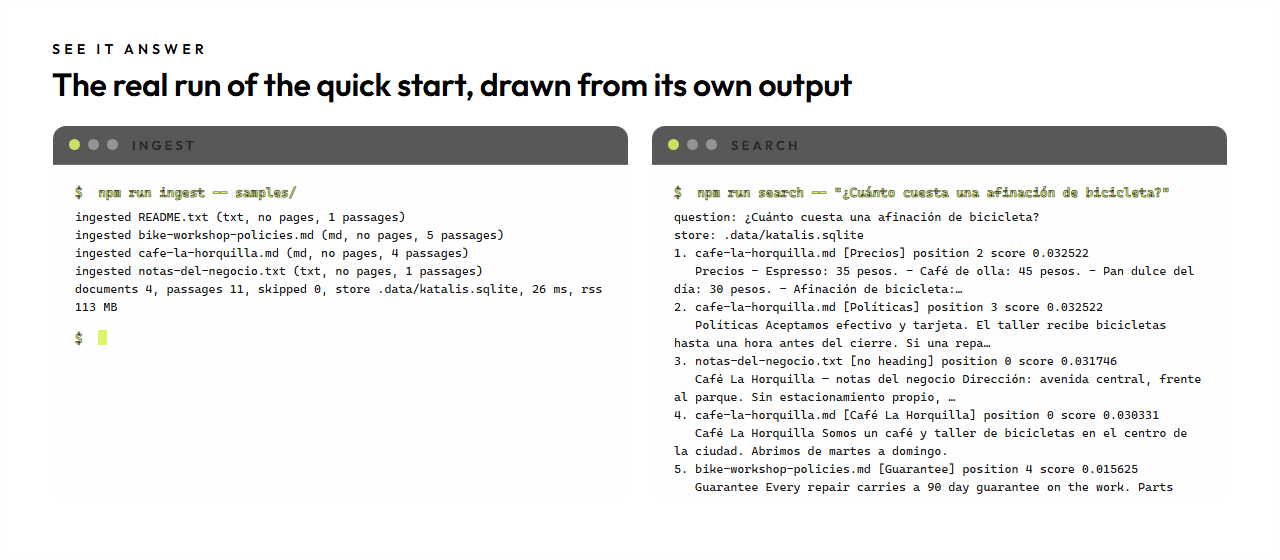
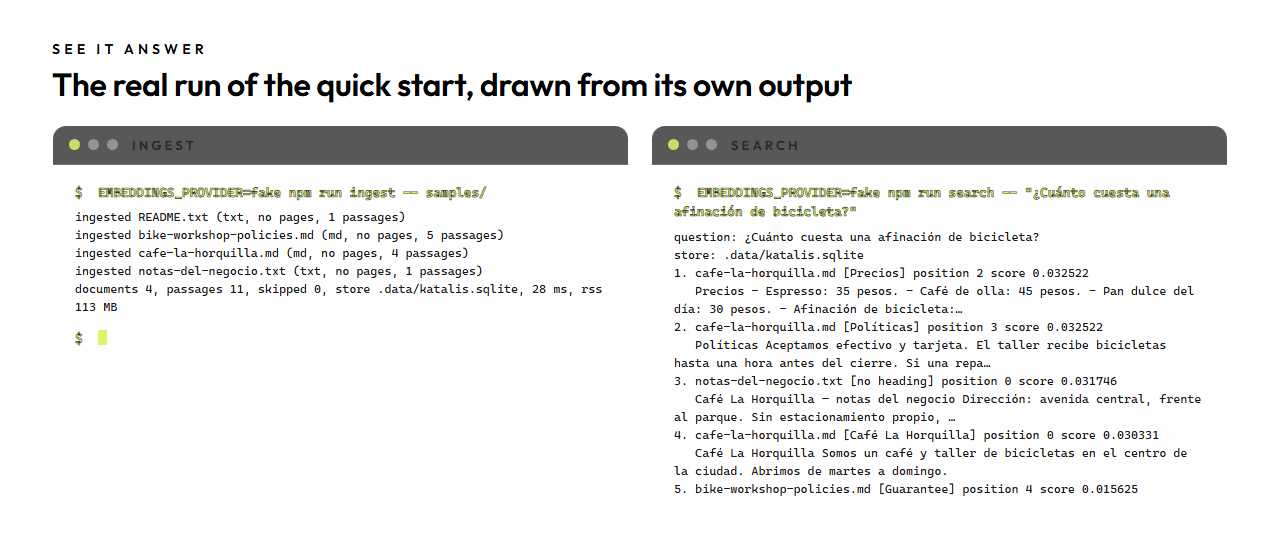
fix(cited-identity-and-readme): make the quick start run as it is written

Changed region(s): [[0.5312, 0.3339, 0.9375, 0.8804], [0.0625, 0.3339, 0.375, 0.3643]]

diff --git a/tests/readme.test.ts b/tests/readme.test.ts
@@ -166,6 +166,7 @@ function commands(text: string): string[] {
   return codeFences(text)
     .flatMap((block) => block.split("\n"))
     .map((line) => line.trim())
+    .map((line) => line.replace(newlines("^[A-Z][A-Z0-9_]*=[^\\s]+ +"), ""))
     .filter((line) => /^npm (ci|run )/.test(line))
     .map((line) =>
       line.replace(/^npm run ([a-z0-9:]+).*$/, "$1").replace(/^npm (ci)$/, "$1"),
@@ -460,7 +461,8 @@ describe("README, the quick start and the configuration", () => {
     }
 
     expect(quickStart).toContain("samples/");
-    expect(quickStart).toContain("EMBEDDINGS_PROVIDER=fake");
+    expect(quickStart).toContain("EMBEDDINGS_PROVIDER=fake npm run ingest -- samples/");
+    expect(quickStart).toMatch(/EMBEDDINGS_PROVIDER=fake npm run search -- "/);
   });
 
   it("compares the variables of the configuration with .env.example and with the code", () => {
@@ -621,8 +623,8 @@ describe("README, its graphics", () => {
     const search = demo["search"] as Record<string, unknown>;
     const quickStart = bodyOf(readText("README.md"), "Quick start");
 
-    expect(ingest["command"]).toBe("npm run ingest -- samples/");
-    expect(search["command"]).toContain("npm run search --");
+    expect(ingest["command"]).toBe("EMBEDDINGS_PROVIDER=fake npm run ingest -- samples/");
+    expect(search["command"]).toContain("EMBEDDINGS_PROVIDER=fake npm run search --");
     expect(String(ingest["output"])).toContain("documents 4, passages 11");
     expect(String(search["output"])).toMatch(newlines("^\\d+\\. ", "m"));
     expect(demo["exitCode"]).toBe(0);
@@ -630,11 +632,11 @@ describe("README, its graphics", () => {
     const drawn = demo["drawn"] as Record<string, string[]>;
 
     for (const line of drawn["ingest"] ?? []) {
-      expect(quickStart, line).toContain(line);
+      expect(quickStart, line.slice(0, 60)).toContain(line.slice(0, 60));
     }
 
     for (const line of (drawn["search"] ?? []).slice(0, 10)) {
-      expect(quickStart, line).toContain(line);
+      expect(quickStart, line.slice(0, 60)).toContain(line.slice(0, 60));
     }
   });
 

diff --git a/README.es.md b/README.es.md
@@ -102,28 +102,29 @@ git clone https://github.com/RonnieGex/cited.git
 cd cited
 npm ci
 cp .env.example .env
-npm run ingest -- samples/
-npm run search -- "¿Cuánto cuesta una afinación de bicicleta?"
+EMBEDDINGS_PROVIDER=fake npm run ingest -- samples/
+EMBEDDINGS_PROVIDER=fake npm run search -- "¿Cuánto cuesta una afinación de bicicleta?"
 npm run dev
 ```
 
-El archivo de entorno se lee cuando existe, así que los comandos funcionan antes de que llenes nada.
-`EMBEDDINGS_PROVIDER=fake` elige el proveedor determinista que el repositorio usa en sus propias pruebas. El último
-comando sirve la página en `http://localhost:3000`.
+La plantilla del entorno trae todos los valores vacíos a propósito, así que los dos comandos del corpus llevan delante
+el proveedor determinista: `fake` corre sin conexión y no necesita llave. Para conservarlo toda la sesión, escribe
+`EMBEDDINGS_PROVIDER=fake` en `.env` una vez y quítalo de los comandos. El último comando sirve la página en
+`http://localhost:3000`.
 
 La salida de los dos comandos, sobre el corpus de ejemplo:
 
 ```
-$ npm run ingest -- samples/
+$ EMBEDDINGS_PROVIDER=fake npm run ingest -- samples/
 ingested README.txt (txt, no pages, 1 passages)
 ingested bike-workshop-policies.md (md, no pages, 5 passages)
 ingested cafe-la-horquilla.md (md, no pages, 4 passages)
 ingested notas-del-negocio.txt (txt, no pages, 1 passages)
-documents 4, passages 11, skipped 0, store .data/katalis.sqlite, 26 ms, rss 113 MB
+documents 4, passages 11, skipped 0, store .data/katalis.sqlite, 28 ms, rss 113 MB
 ```
 
 ```
-$ npm run search -- "¿Cuánto cuesta una afinación de bicicleta?"
+$ EMBEDDINGS_PROVIDER=fake npm run search -- "¿Cuánto cuesta una afinación de bicicleta?"
 question: ¿Cuánto cuesta una afinación de bicicleta?
 store: .data/katalis.sqlite
 1. cafe-la-horquilla.md [Precios] position 2 score 0.032522

diff --git a/README.md b/README.md
@@ -102,28 +102,29 @@ git clone https://github.com/RonnieGex/cited.git
 cd cited
 npm ci
 cp .env.example .env
-npm run ingest -- samples/
-npm run search -- "¿Cuánto cuesta una afinación de bicicleta?"
+EMBEDDINGS_PROVIDER=fake npm run ingest -- samples/
+EMBEDDINGS_PROVIDER=fake npm run search -- "¿Cuánto cuesta una afinación de bicicleta?"
 npm run dev
 ```
 
-The environment file is read when it exists, so the commands work before you fill anything in.
-`EMBEDDINGS_PROVIDER=fake` selects the deterministic provider the repository uses for its own tests. The last command
-serves the page on `http://localhost:3000`.
+The template of the environment has every value empty on purpose, so the two commands of the corpus carry the
+deterministic provider in front: `fake` runs offline and needs no key. To keep it for the whole session, write
+`EMBEDDINGS_PROVIDER=fake` in `.env` once and drop it from the commands. The last command serves the page on
+`http://localhost:3000`.
 
 The output of the two commands, on the sample corpus:
 
 ```
-$ npm run ingest -- samples/
+$ EMBEDDINGS_PROVIDER=fake npm run ingest -- samples/
 ingested README.txt (txt, no pages, 1 passages)
 ingested bike-workshop-policies.md (md, no pages, 5 passages)
 ingested cafe-la-horquilla.md (md, no pages, 4 passages)
 ingested notas-del-negocio.txt (txt, no pages, 1 passages)
-documents 4, passages 11, skipped 0, store .data/katalis.sqlite, 26 ms, rss 113 MB
+documents 4, passages 11, skipped 0, store .data/katalis.sqlite, 28 ms, rss 113 MB
 ```
 
 ```
-$ npm run search -- "¿Cuánto cuesta una afinación de bicicleta?"
+$ EMBEDDINGS_PROVIDER=fake npm run search -- "¿Cuánto cuesta una afinación de bicicleta?"
 question: ¿Cuánto cuesta una afinación de bicicleta?
 store: .data/katalis.sqlite
 1. cafe-la-horquilla.md [Precios] position 2 score 0.032522
